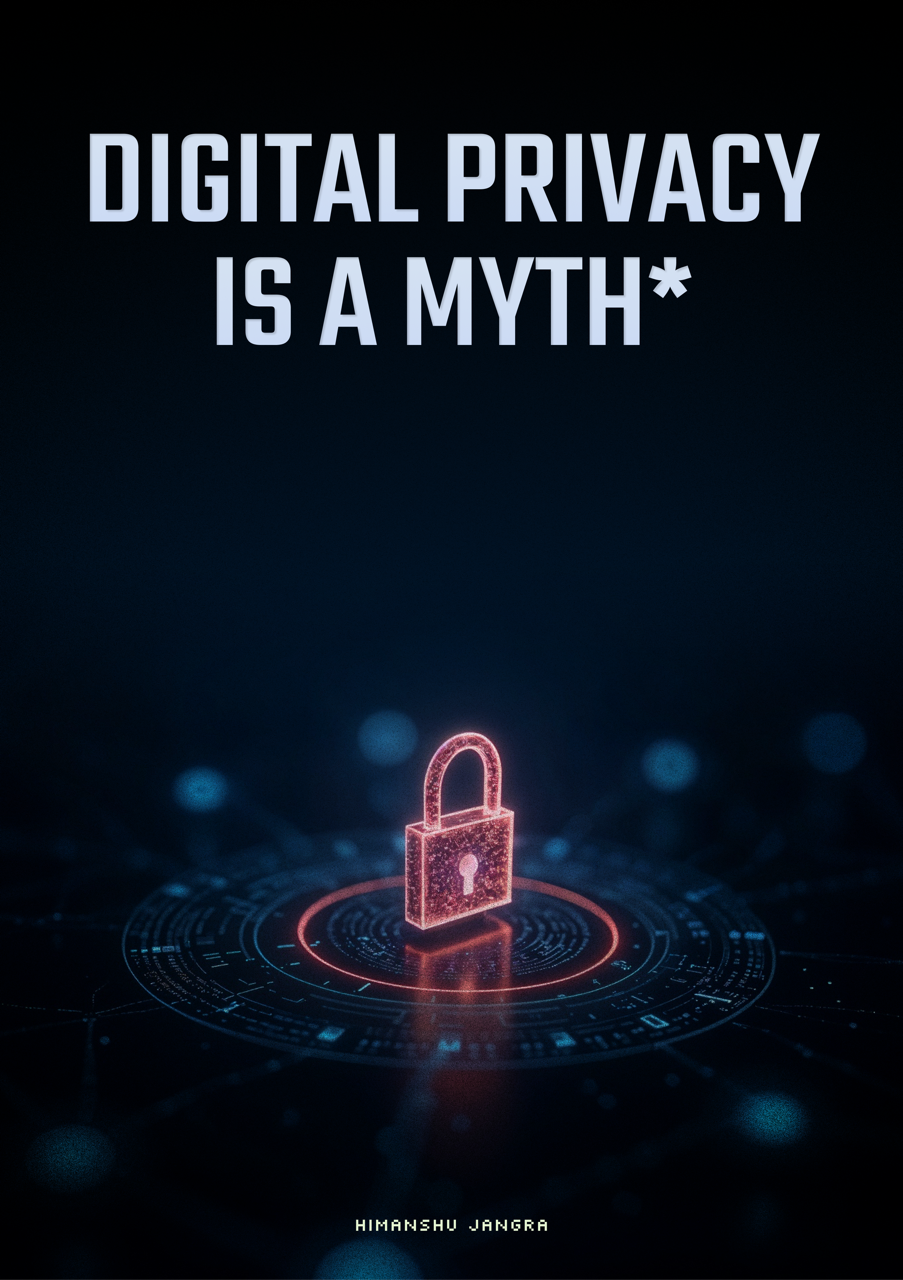
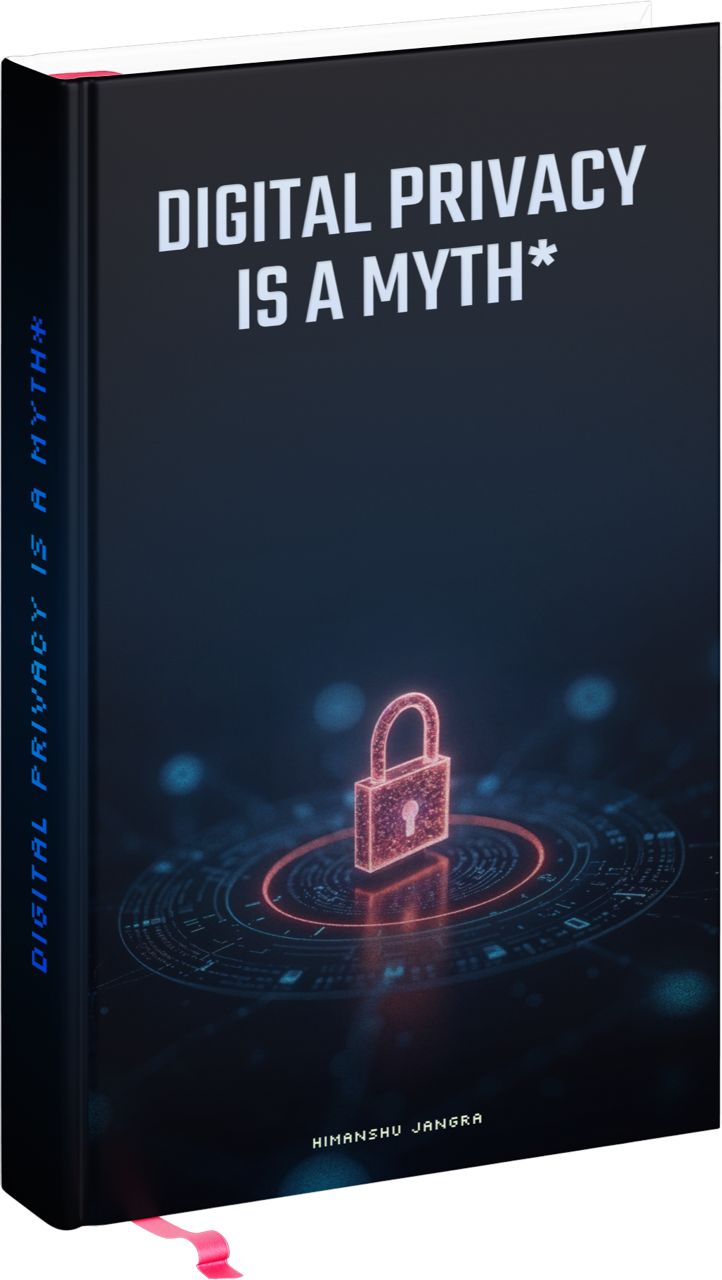
Final Push

diff --git a/styles.css b/styles.css
@@ -7,8 +7,8 @@
   --bg-elevated: #0a1e3a;
   --text-primary: #D5E2F2;
   --text-secondary: #8ea4c0;
-  --accent: #e0f49f;
-  --accent-dim: #c8e7ad;
+  --accent: #0095FE;
+  --accent-dim: #2CCA61;
   --rose: #d2425c;
   --rose-dim: #892a3c;
   --gradient-dark: linear-gradient(135deg, #010101, #00152A, #010101);
@@ -451,9 +451,9 @@ img {
 }
 
 .hero-cover {
-  max-width: 340px;
+  max-width: 280px;
   border-radius: 12px;
-  box-shadow: 0 20px 60px rgba(204, 219, 244, .12), 0 0 80px rgba(199, 92, 111, .06);
+  /* box-shadow: 0 20px 60px rgba(204, 219, 244, .12), 0 0 80px rgba(199, 92, 111, .06); */
   animation: coverFloat 4s ease-in-out infinite;
   justify-self: center
 }

diff --git a/feedback.html b/feedback.html
@@ -8,6 +8,7 @@
   <meta property="og:title" content="Feedback — Digital Privacy is a Myth*">
   <meta property="og:description" content="Tell us what you thought. No marketing. Just a human reading your message.">
   <meta property="og:image" content="digital_privacy_is_a_myth_cover.png">
+  <link rel="icon" type="image/x-icon" href="favicon.png">
   <meta property="og:url" content="https://privacymyth.himanshujangra.in/feedback.html">
   <meta name="twitter:card" content="summary_large_image">
   <link rel="canonical" href="https://privacymyth.himanshujangra.in/feedback.html">

diff --git a/download.html b/download.html
@@ -8,6 +8,7 @@
   <meta property="og:title" content="Download — Digital Privacy is a Myth*">
   <meta property="og:description" content="Free PDF download. No signup required. No tracking.">
   <meta property="og:image" content="digital_privacy_is_a_myth_cover.png">
+  <link rel="icon" type="image/x-icon" href="favicon.png">
   <meta property="og:url" content="https://privacymyth.himanshujangra.in/download.html">
   <meta name="twitter:card" content="summary_large_image">
   <link rel="canonical" href="https://privacymyth.himanshujangra.in/download.html">

diff --git a/index.html b/index.html
@@ -10,6 +10,7 @@
   <meta property="og:image" content="digital_privacy_is_a_myth_cover.png">
   <meta property="og:url" content="https://privacymyth.himanshujangra.in/">
   <meta property="og:type" content="website">
+  <link rel="icon" type="image/x-icon" href="favicon.png">
   <meta name="twitter:card" content="summary_large_image">
   <meta name="twitter:title" content="Digital Privacy is a Myth*">
   <meta name="twitter:description" content="Your digital life is an open book. This one isn't.">

diff --git a/privacy.html b/privacy.html
@@ -8,6 +8,7 @@
   <meta property="og:title" content="Privacy Policy — Digital Privacy is a Myth*">
   <meta property="og:url" content="https://privacymyth.himanshujangra.in/privacy.html">
   <meta name="twitter:card" content="summary">
+  <link rel="icon" type="image/x-icon" href="favicon.png">
   <link rel="canonical" href="https://privacymyth.himanshujangra.in/privacy.html">
   <link rel="stylesheet" href="styles.css">
 </head>

diff --git a/read.html b/read.html
@@ -10,6 +10,7 @@
   <meta property="og:image" content="digital_privacy_is_a_myth_cover.png">
   <meta property="og:url" content="https://privacymyth.himanshujangra.in/read.html">
   <meta name="twitter:card" content="summary_large_image">
+  <link rel="icon" type="image/x-icon" href="favicon.png">
   <link rel="canonical" href="https://privacymyth.himanshujangra.in/read.html">
   <link rel="stylesheet" href="styles.css">
 </head>

diff --git a/quiz.html b/quiz.html
@@ -10,6 +10,7 @@
   <meta property="og:image" content="digital_privacy_is_a_myth_cover.png">
   <meta property="og:url" content="privacymyth.himanshujangra.in/quiz.html">
   <meta name="twitter:card" content="summary_large_image">
+  <link rel="icon" type="image/x-icon" href="favicon.png">
   <link rel="canonical" href="https://privacymyth.himanshujangra.in/quiz.html">
   <link rel="stylesheet" href="styles.css">
 </head>
